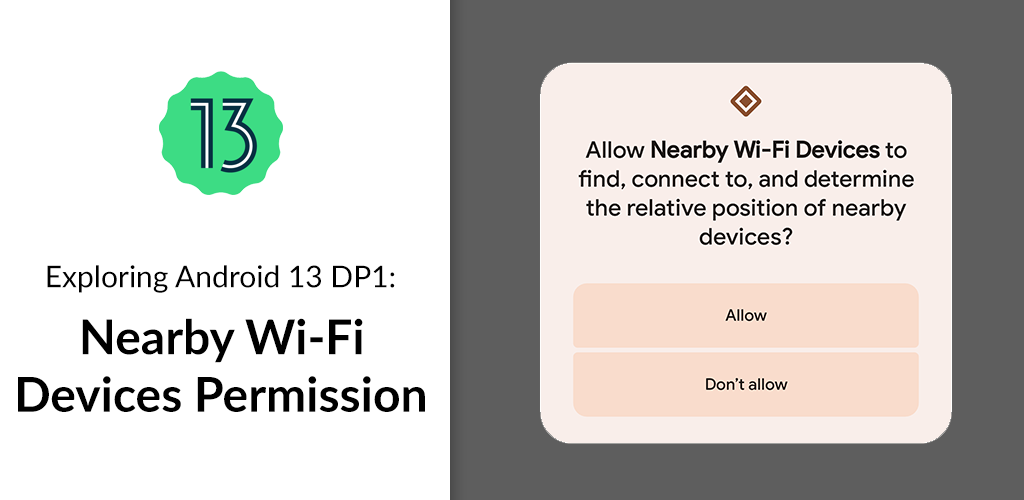
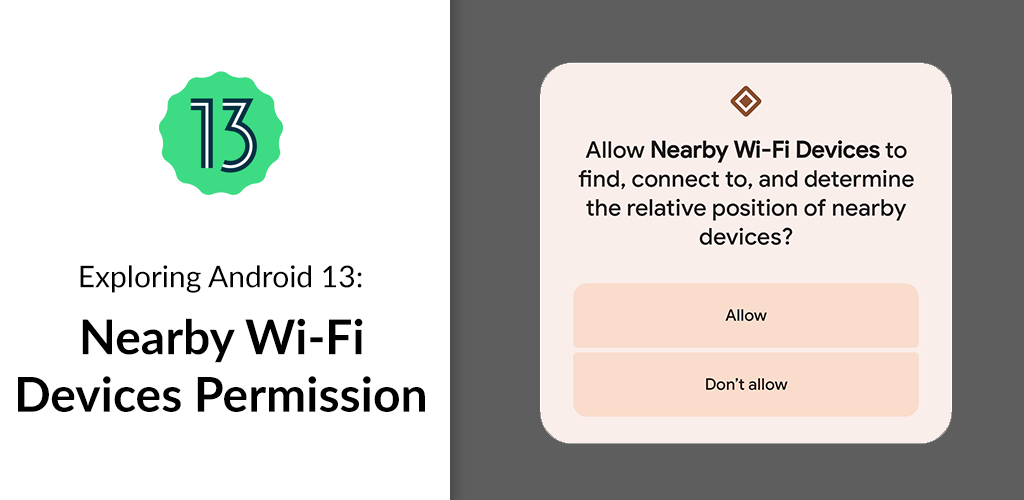
Update to Android 13 Developer Preview 2

Changed region(s): [[0.0312, 0.51, 0.375, 0.6]]

diff --git a/README.md b/README.md
@@ -1,6 +1,6 @@
 # android-13-samples
 
-Sample projects for Android 13 (Developer Preview 1).
+Sample projects for Android 13 (Developer Preview 2).
 
 ## Table of Content
 
